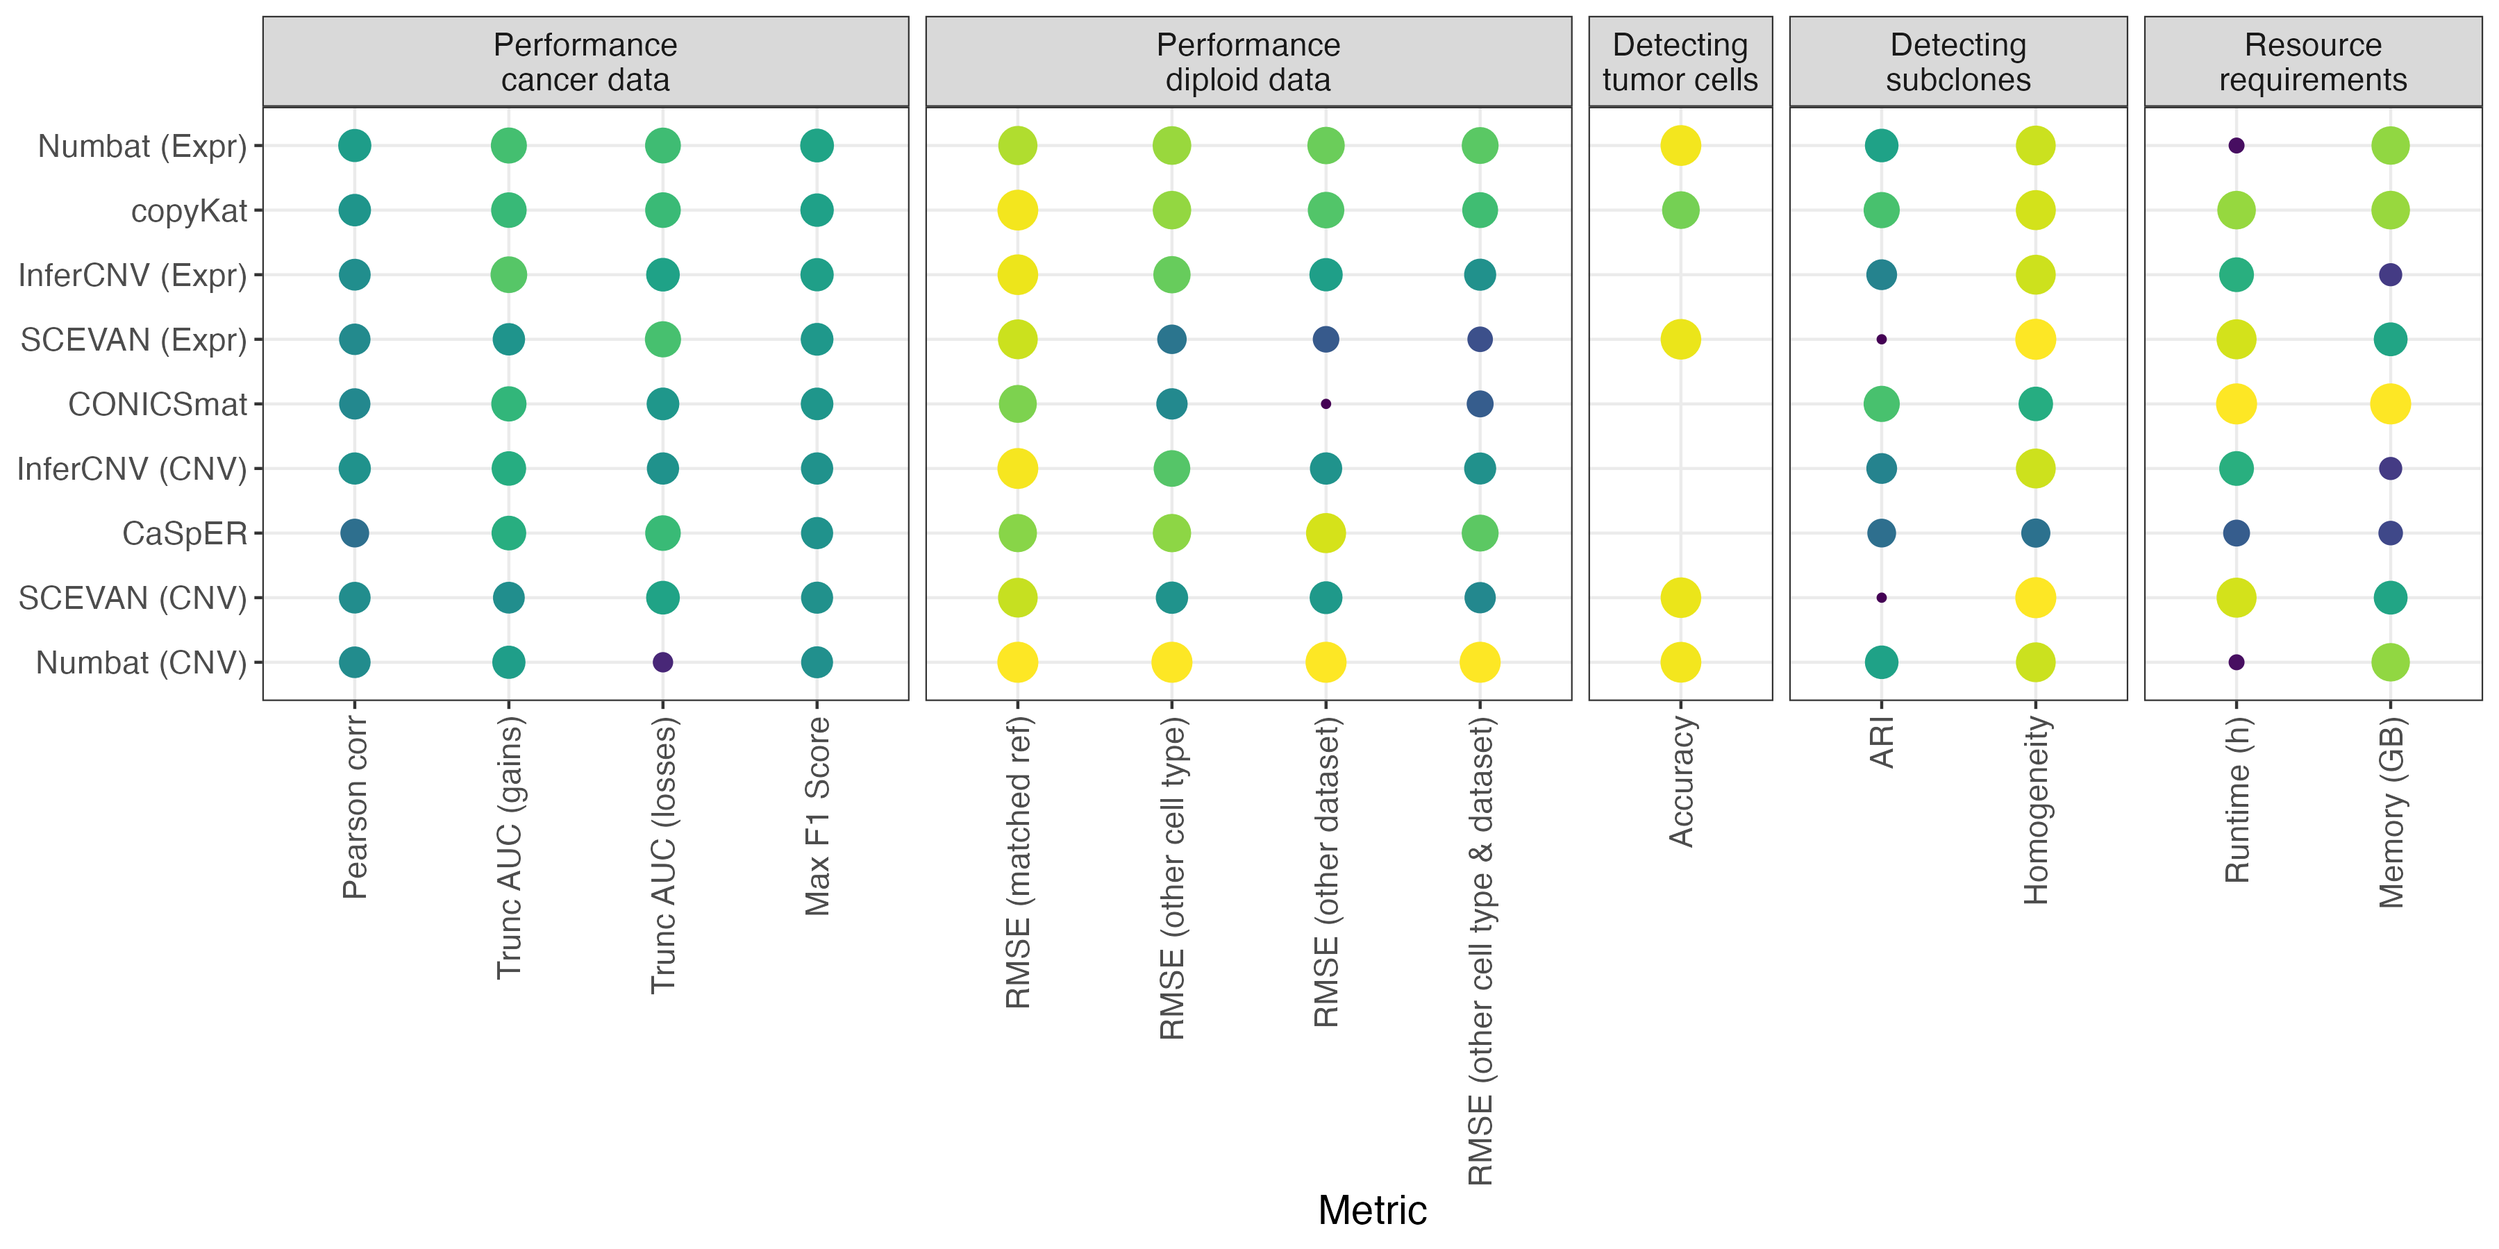
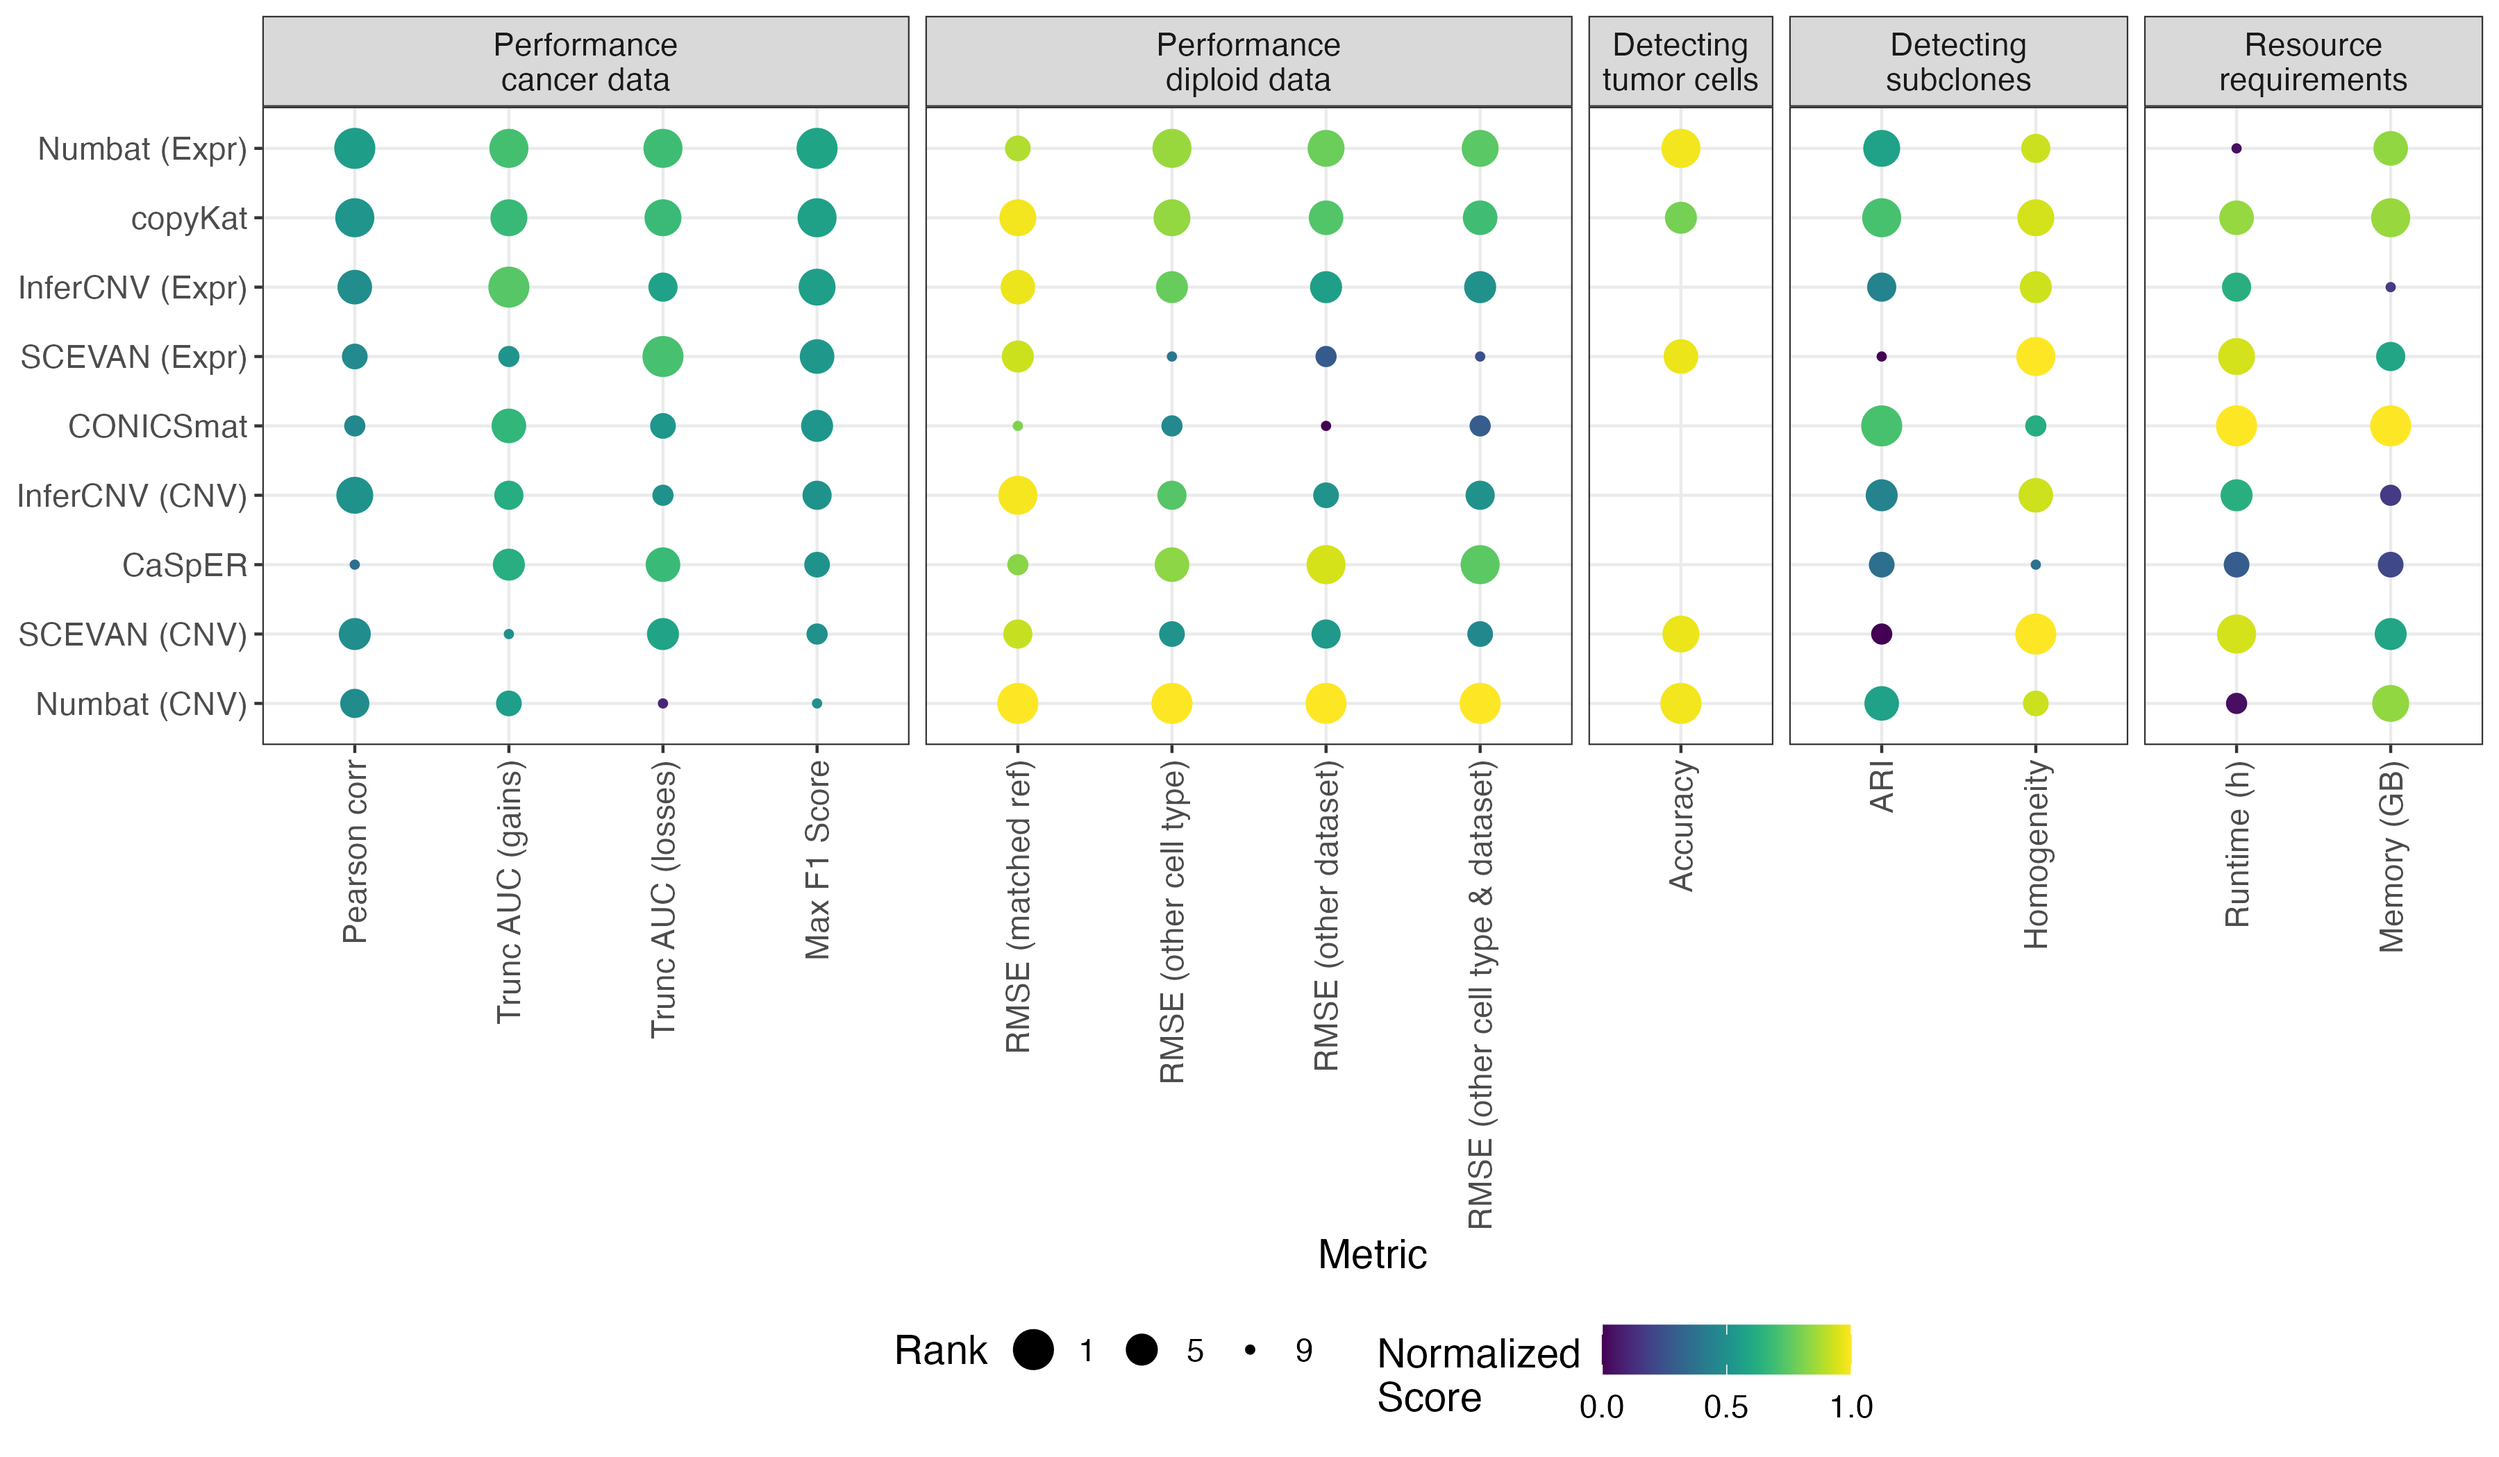
Updated Figure 4

diff --git a/README.md b/README.md
@@ -60,7 +60,7 @@ Furthermore, the methods differ in other several other aspects (Figure 4). Numba
 </br></br>
 <figure>
   <img src="pictures/summary_plot.png" alt="Performance summary"/>
-  <figcaption><b>Figure 4.</b> Summary of the benchmarking results. Main categories: mean CNV prediction performance for cancer datasets and diploid datasets, tumor cell classification, sub clonal identification and required resources.</figcaption>
+  <figcaption><b>Figure 4.</b> Summary of the benchmarking results. Main categories: mean CNV prediction performance for cancer datasets and diploid datasets, tumor cell classification, sub clonal identification and required resources. The dot size shows the rank of each method for the respective column, with 1 being the best performing method in the category. The dot color represents a normalized score, where the values of each metric are scaled from 0 to 1, in a way that 1 is always the best value. For this, the values of RMSE, runtime and memory consumption were inverted.</figcaption>
 </figure>
 
 ## Setup of the pipeline
